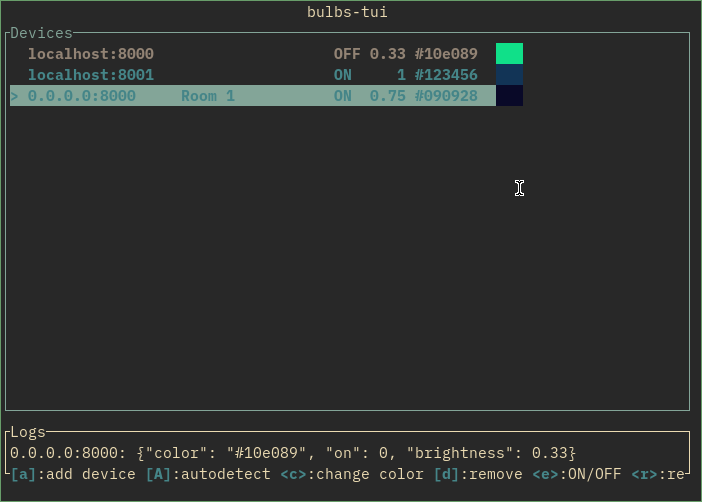
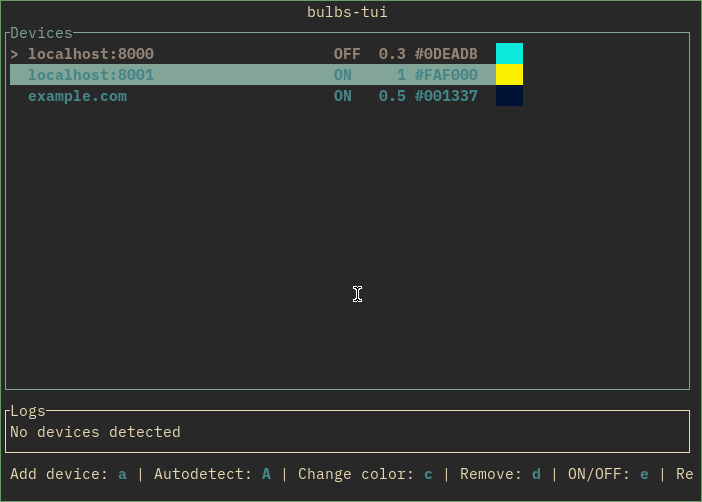
Update screenshot for UI changes, improve readme

diff --git a/README.md b/README.md
@@ -1,5 +1,24 @@
 ## bulbs-tui
 
-TUI for [bulbs](https://github.com/imjah/bulbs) written in rust using ratatui and ureq.
+TUI application for [bulbs](https://github.com/imjah/bulbs) written in rust using [ratatui](https://ratatui.rs/) and [ureq](https://github.com/algesten/ureq).
 
 ![application screenshot](screenshot.png)
+
+It's also possible to use it in non interactive mode:
+```
+$ bulbs-tui cli --help
+Control bulbs non interactively
+
+Usage: bulbs-tui cli [OPTIONS] [POWER]
+
+Arguments:
+  [POWER]  Set LED power [possible values: on, off, toggle]
+
+Options:
+  -a <ADDR>       Device address (can be specified mulitiple times)
+  -b <NUM>        Set brightness
+  -d              Automatically find devices
+  -c <COLOR>      Set color
+  -s              Show status
+  -h, --help      Print help
+```
